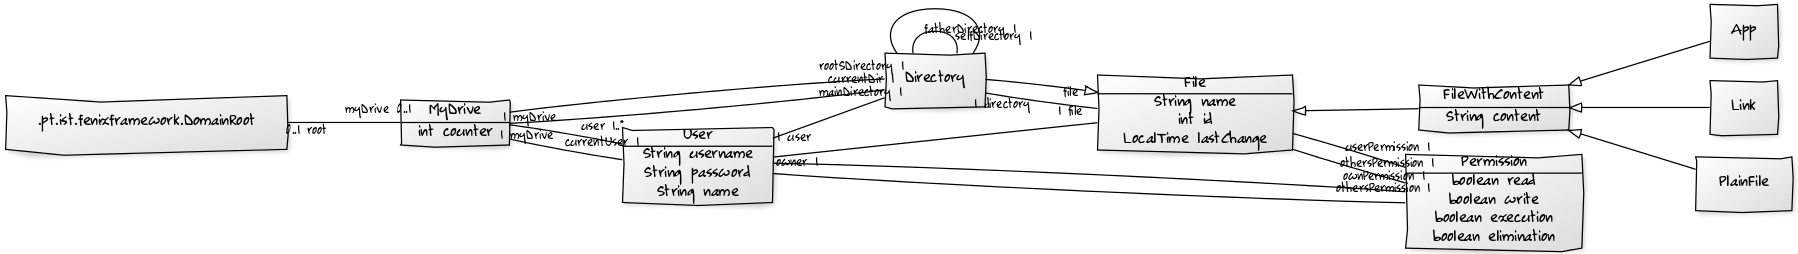
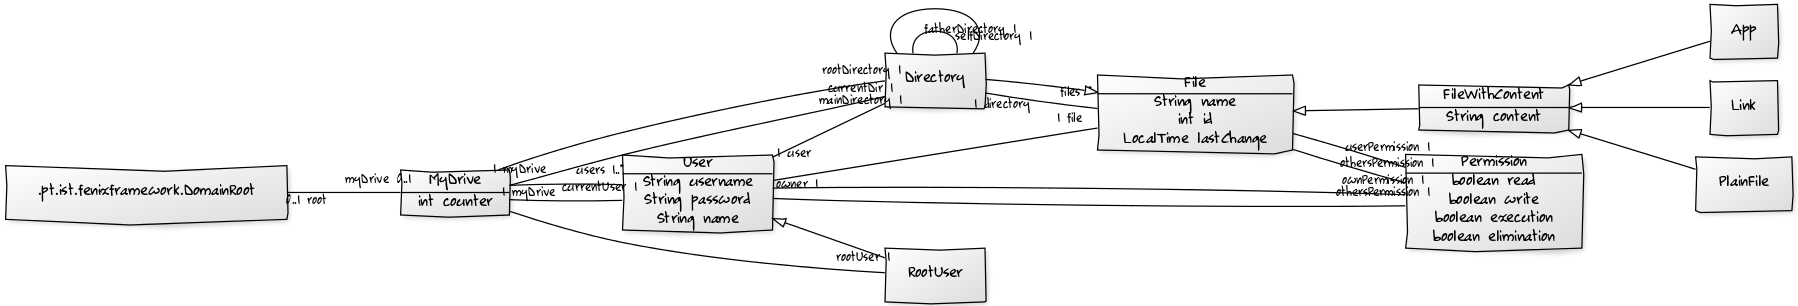
pequena alteracao no dml relativamente aos nomes dos getters e classe Directory

diff --git a/src/main/java/pt/tecnico/mydrive/domain/Directory.java b/src/main/java/pt/tecnico/mydrive/domain/Directory.java
@@ -1,9 +1,93 @@
 package pt.tecnico.mydrive.domain;
 
+import java.util.Set;
+import pt.tecnico.mydrive.exception.*;
+
 public class Directory extends Directory_Base {
     
-    public Directory() {
-        super();
+	//construtor
+    //NETO: o file preenche os campos das permissoes pois tem o user
+	public Directory(int id, String name, User user, Directory father) {//o mydrive tem de fazer controlo dos ids
+        //super(id, name, user); superclasse nao construida
+        setFatherDirectory(father);
+        setSelfDirectory(this);
     }
+	
+    //cria uma diretoria
+    //as permissoes serao verificadas no mydrive
     
+	//LUIS: preciso de id, no catch atualizas o counter se der exceçao
+	
+	public void createDir(int id, String name, User user) throws FileOrDirectoryAlreadyExistsException { //Sugiro FileAlreadyExistsException pois uma directory é um file
+		try {
+			search(name);
+		} catch (NoSuchFileOrDirectoryException e) {} //verifico se nao existe nenhum ficherio com esse nome
+		Directory d = new Directory(id, name, user, this);
+    	addFiles((File) d);
+    }
+	
+	public void remove(String name) throws NoSuchFileOrDirectoryException{
+		File f = search(name);
+		f.remove();
+		removeFiles(f);
+	}
+	
+	public void remove() {
+		Set<File> files = getFiles();
+		for (File f: files) {
+   	 		f.remove();
+   	 		removeFiles(f);
+   	 	}
+	}
+	
+	public File search(String name) throws NoSuchFileOrDirectoryException{
+		Set<File> files = getFiles();
+		for (File f: files) {
+   	 		if (f.getName().equals(name)) {
+   	 			return f;
+   	 		}
+		}
+		throw new NoSuchFileOrDirectoryException(name);
+	}
+	
+	public File cdable(File f) throws FileNotDirectoryException{
+		Visitor v = new CdableVisitor();
+   	 	f.accept(v);
+   	 	return f;
+   	}
+	
+	//lista o conteudo da diretoria
+	public String ls(){
+		String output="";
+		Set<File> files = getFiles();
+   	 	output+=getFatherDirectory().toString()+getSelfDirectory().toString();
+   	 	for (File f: files){
+   	 		output+= f.toString();
+   	 	}
+		return output;
+	}
+	
+	//devolve a descricao da diretoria
+	public String toString(){
+		String s = "Directory ";
+		s+="Dimension: "+dimension();
+		s+=super.toString();
+		return s;
+	}
+	
+	//devolve a dimensao da diretoria
+	public int dimension(){
+		return 2 + getFiles().size();
+	}
+	
+	public void accept(Visitor v) throws FileNotDirectoryException{
+		v.execute(this);
+	}
+	
+	public Directory get(String name) throws NoSuchFileOrDirectoryException, FileNotDirectoryException{
+		File f = search(name);
+		Visitor v = new CdableVisitor();
+   	 	f.accept(v);
+   	 	return (Directory)f;
+	}
 }

diff --git a/src/main/java/pt/tecnico/mydrive/exception/FileNotDirectoryException.java b/src/main/java/pt/tecnico/mydrive/exception/FileNotDirectoryException.java
@@ -1,0 +1,21 @@
+package pt.tecnico.mydrive.exception;
+
+public class FileNotDirectoryException extends MyDriveException {
+
+    private static final long serialVersionUID = 1L;
+
+    private String _name;
+
+    public FileNotDirectoryException(String name){
+        _name=name;
+    }
+
+    public String getName() {
+        return _name;
+    }
+
+    @Override
+    public String getMessage(){
+        return getName() + " : Operation only valid for directories.";
+    }
+}

diff --git a/src/main/java/pt/tecnico/mydrive/domain/CdableVisitor.java b/src/main/java/pt/tecnico/mydrive/domain/CdableVisitor.java
@@ -1,0 +1,15 @@
+package pt.tecnico.mydrive.domain;
+
+import pt.tecnico.mydrive.exception.FileNotDirectoryException;
+
+public class CdableVisitor implements Visitor {
+
+	@Override
+	public void execute(Directory d) {		
+	}
+
+	@Override
+	public void execute(FileWithContent f) throws FileNotDirectoryException {
+		throw new FileNotDirectoryException(f.getName());
+	}
+}

diff --git a/src/main/java/pt/tecnico/mydrive/domain/FileWithContent.java b/src/main/java/pt/tecnico/mydrive/domain/FileWithContent.java
@@ -5,5 +5,17 @@ public class FileWithContent extends FileWithContent_Base {
     public FileWithContent() {
         super();
     }
+
+	@Override
+	public void remove() {
+		// TODO Auto-generated method stub
+		
+	}
+
+	@Override
+	public void accept(Visitor v) {
+		// TODO Auto-generated method stub
+		
+	}
     
 }

diff --git a/src/main/java/pt/tecnico/mydrive/domain/File.java b/src/main/java/pt/tecnico/mydrive/domain/File.java
@@ -6,4 +6,15 @@ public class File extends File_Base {
         super();
     }
     
+    public void remove(){}
+    
+    public void accept(Visitor v){
+    	//TODO
+    }
+    
+    public String toString(){
+    	String s="";
+    	//TODO
+    	return s;
+    }
 }

diff --git a/src/main/java/pt/tecnico/mydrive/domain/Visitor.java b/src/main/java/pt/tecnico/mydrive/domain/Visitor.java
@@ -1,0 +1,6 @@
+package pt.tecnico.mydrive.domain;
+
+public interface Visitor {
+	void execute(Directory d);
+	void execute(FileWithContent f);
+}
